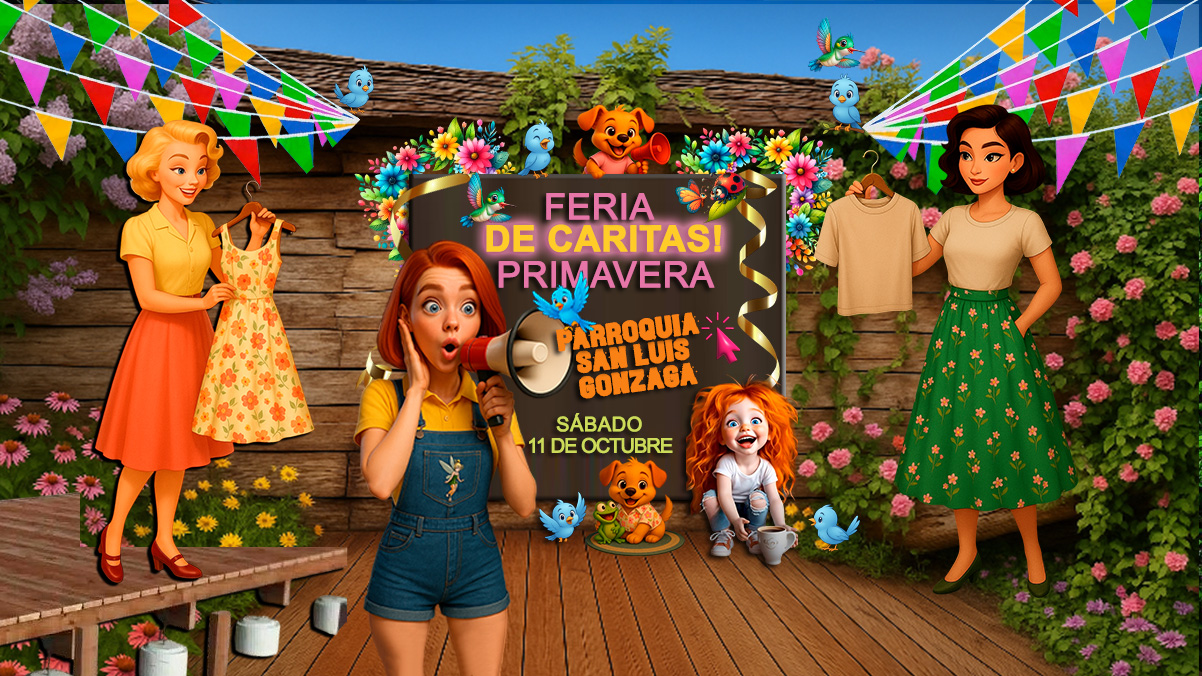
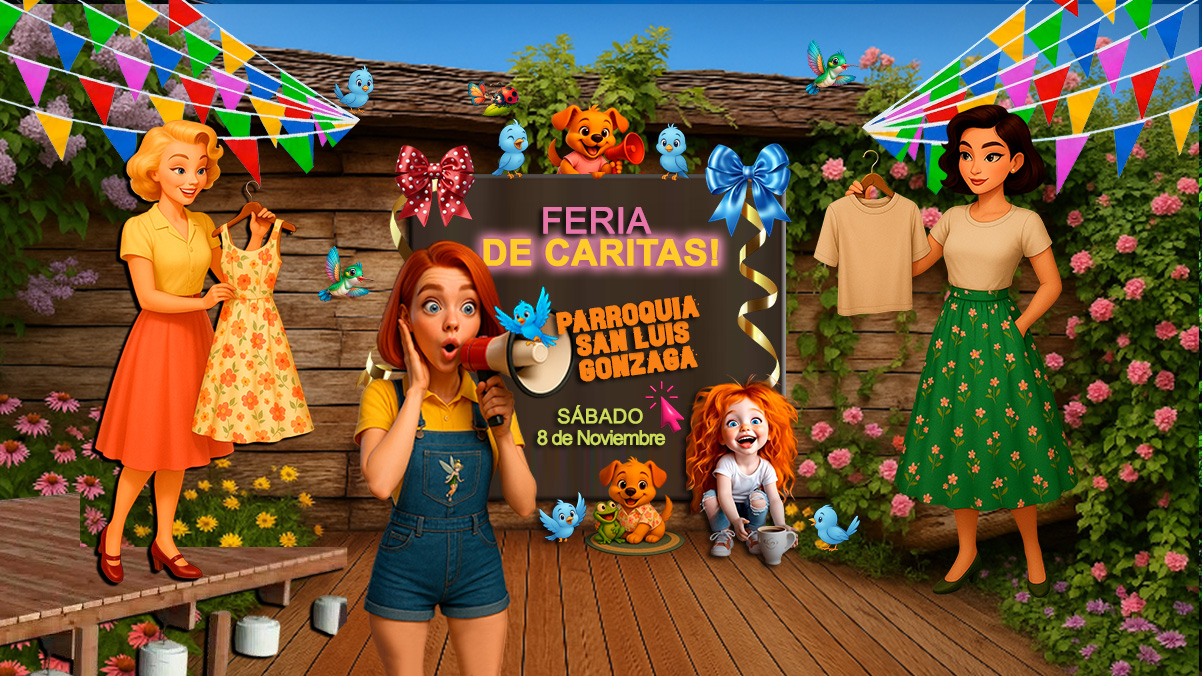
prep feria americana

Changed region(s): [[0.2463, 0.0311, 0.7388, 0.6834]]

diff --git a/index.html b/index.html
@@ -1591,8 +1591,8 @@ function updateConfetti() {
   // Mostrar solo entre el 1 y el 9 de agosto de 2025 inclusive
   (function() {
     var hoy = new Date();
-    var hasta = new Date(2025, 9, 11, 23, 59, 59, 999); // hasta fin del 11 de octubre (mes 9 = octubre)
-    var desde = new Date(2025, 8, 19); // 31 de agosto (mes 7 = agosto 0-indexed)
+    var hasta = new Date(2025, 10, 8, 23, 59, 59, 999); // hasta fin del 8 de noviembre (mes 10 = noviembre)
+    var desde = new Date(2025, 10, 1, 0, 0, 0, 0); // desde el 1 de noviembre de 2025 (inclusive)
 
     if (hoy >= desde && hoy <= hasta) {
       document.write(`
@@ -1617,7 +1617,7 @@ function updateConfetti() {
        <p class="feria-time texto3d" style="font-size: 1.3em; color: #c5ec2d; line-height: 1;">
         Ropa - Calzado - Accesorios <br> y más usados</p>
       <p class="feria-time texto3d blinking-llamador" style="font-size: 2em; color: #c5ec2d; line-height: 1;">
-        <strong>SÁBADO <br> 11 DE OCTUBRE</strong>
+        <strong>SÁBADO <br> 8 DE NOVIEMBRE</strong>
       </p>
       <style>
       .blinking-llamador {
